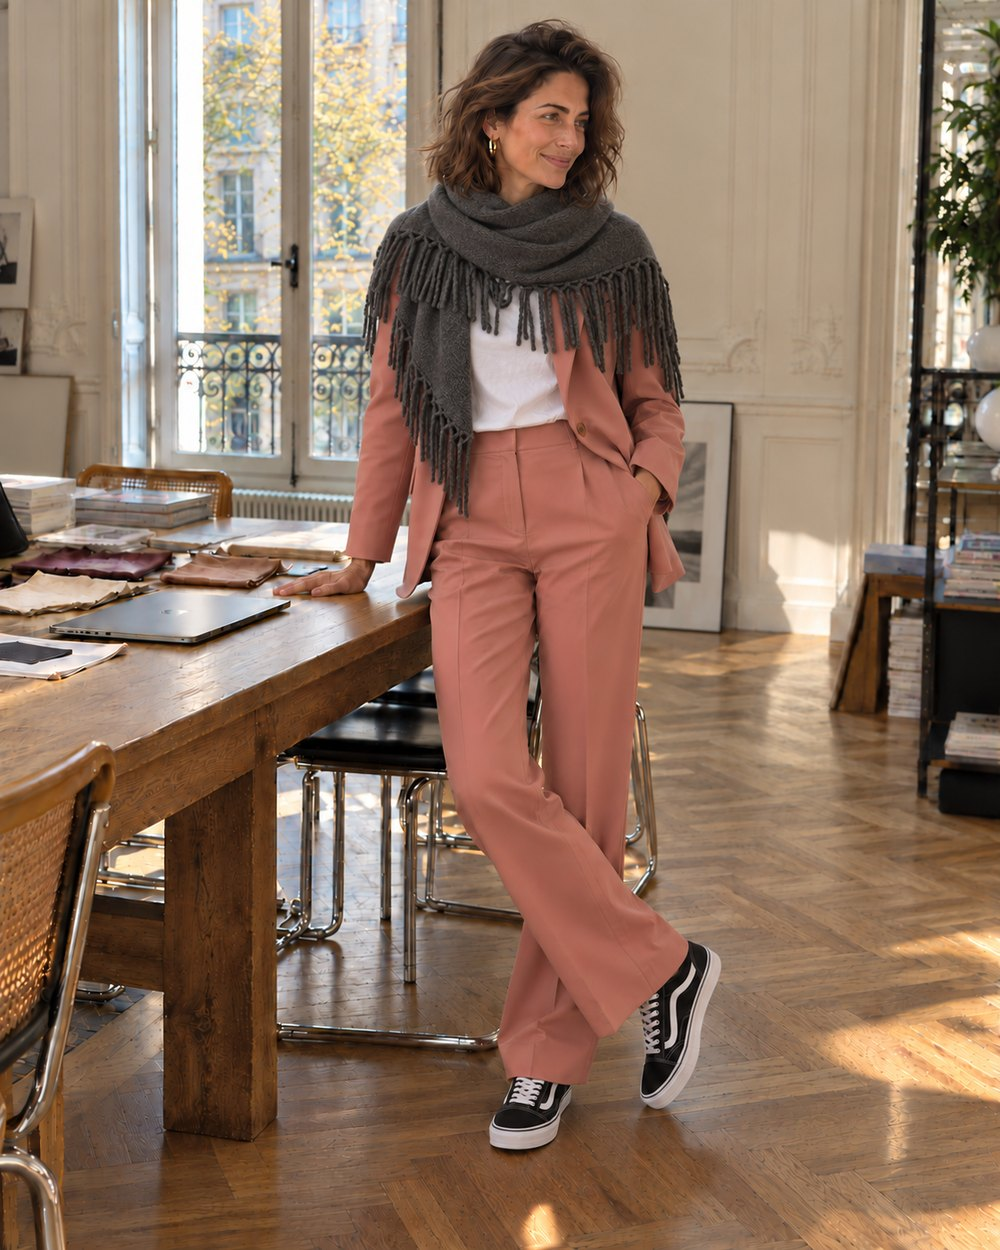
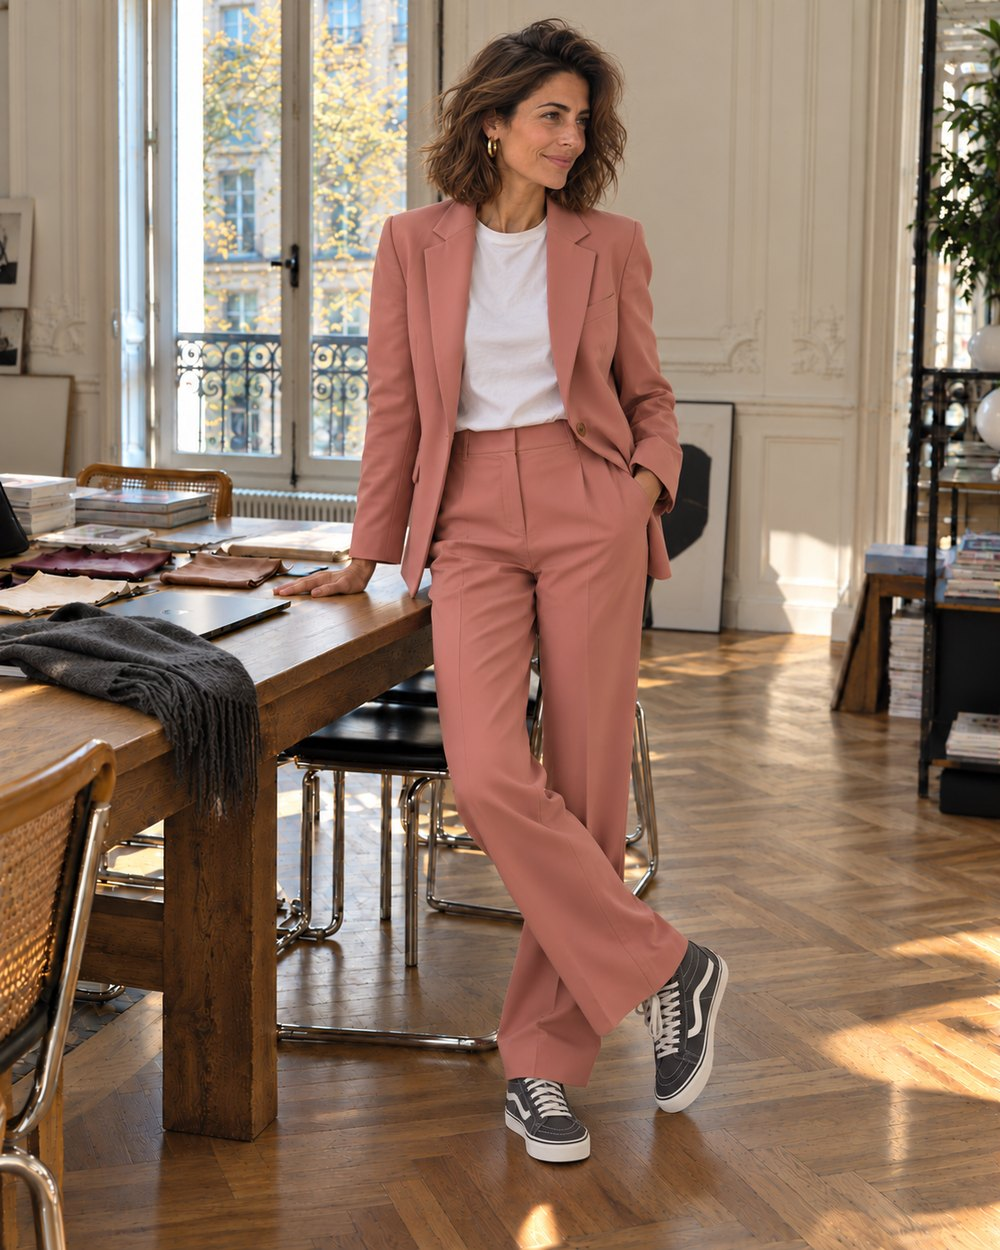
Post 40: Market morning look

diff --git a/index.html b/index.html
@@ -56,13 +56,33 @@ a:focus-visible{outline:2px solid var(--accent);outline-offset:2px}
 <script>
 /* ADD NEW LOOKS AT THE TOP OF THIS LIST */
 const LOOKS = [
+  {id:"marketmorning", kicker:"Saturday market", title:"Market morning", date:"26 Oct 2026", img:"marketmorning.jpg",
+   items:[
+    {b:"Sézane", n:"Oscar jacket, brown & pink check", p:"€245", u:"https://www.sezane.com/es-es/product/chaqueta-oscar/cuadros-marron-rosa-crudo"},
+    {b:"Massimo Dutti", n:"Wool-blend turtleneck jumper, caldero", p:"€39.95", u:"https://www.massimodutti.com/es/jersey-punto-cuello-cisne-con-lana-l05697579"},
+    {b:"& Other Stories", n:"Straight-leg jeans, mid blue", p:"€99", u:"https://www.stories.com/es-es/product/straight-leg-jeans-mid-blue-1360071001/"},
+    {b:"adidas", n:"Gazelle Stack, fox brown & orange", p:"€90", u:"https://www.adidas.es/zapatilla-gazelle-stack/JS3928.html"},
+    {b:"Gianni Chiarini", n:"Marcella shopper", p:"€270", u:"https://www.giannichiarini.com/es/bolsos/bolsos-shopper/marcella-27131.html"}
+   ]},
+  {id:"fridaytable", kicker:"Inez at home", title:"Friday table", date:"23 Oct 2026", img:"fridaytable.jpg",
+   items:[
+    {b:"Sandro", n:"Argyle wool and cashmere jumper", p:"€325", u:"https://www.elcorteingles.es/moda-mujer/MP_0910053_SFPPU02949-multicolor-pr-jersey-de-mujer-de-lana-y-cachemira-con-motivo-argyle/"},
+    {b:"& Other Stories", n:"Straight-leg jeans, light grey", p:"€65", u:"https://www.stories.com/es-es/product/straight-leg-jeans-light-grey-1318163001/"},
+    {b:"Becara", n:"Kent dining chair, aged oak & linen", p:"€550", u:"https://www.becara.com/en/chairs/3419-kent-chair.html"}
+   ]},
+  {id:"mirrorselfie", kicker:"Mirror selfie", title:"Rust & cream", date:"23 Oct 2026", img:"mirrorselfie.jpg",
+   items:[
+    {b:"Sézane", n:"Victor jumper, rosa granate", p:"€200", u:"https://www.sezane.com/es-es/product/jersey-victor/rosa-granate"},
+    {b:"Mango", n:"Pleated suit trousers, ecru", p:"€39.99", u:"https://shop.mango.com/es/es/p/mujer/pantalones/straight/pantalon-traje-pinzas/37086013/05/00"},
+    {b:"Converse", n:"Chuck 70 Vintage Canvas, parchment", p:"€95", u:"https://www.converse.com/es/shop/p/chuck-70-vintage-canvas-unisex/162056MP.html"}
+   ]},
   {id:"thinkpink", kicker:"Office look", title:"Think pink", date:"22 Oct 2026", img:"thinkpink.jpg",
    items:[
     {b:"Mango", n:"Straight suit blazer with pockets, pink", p:"€79.99", u:"https://shop.mango.com/es/es/p/mujer/blazers/entalladas/blazer-traje-recta-bolsillos/37094471/85/00"},
     {b:"Mango", n:"Straight suit trousers, pink", p:"€49.99", u:"https://shop.mango.com/es/es/p/mujer/pantalones/straight/pantalon-traje-recto/37044472/85/00"},
     {b:"Arket", n:"Signature T-shirt, white", p:"€39", u:"https://www.arket.com/es-es/product/heavyweight-t-shirt-white-1135758001/"},
     {b:"Weekend Max Mara", n:"Fringed wool shawl, anthracite", p:"€159", u:"https://es.maxmara.com/p-5746046506009-wkatornado-antracita"},
-    {b:"Vans", n:"Old Skool sneakers, black", p:"€85", u:"https://www.vans.com/es-es/p/zapatillas-old-skool-VN000D3HY28"}
+    {b:"Vans", n:"Insulated Sk8-Hi sneakers, grey", p:"€120", u:"https://www.vans.com/es-es/p/zapatillas-aislantes-sk8-hi-VN000Y611O7"}
    ]},
   {id:"argyleseason", kicker:"The Edit", title:"Argyle season", date:"22 Oct 2026", img:"argyleseason.jpg",
    items:[
